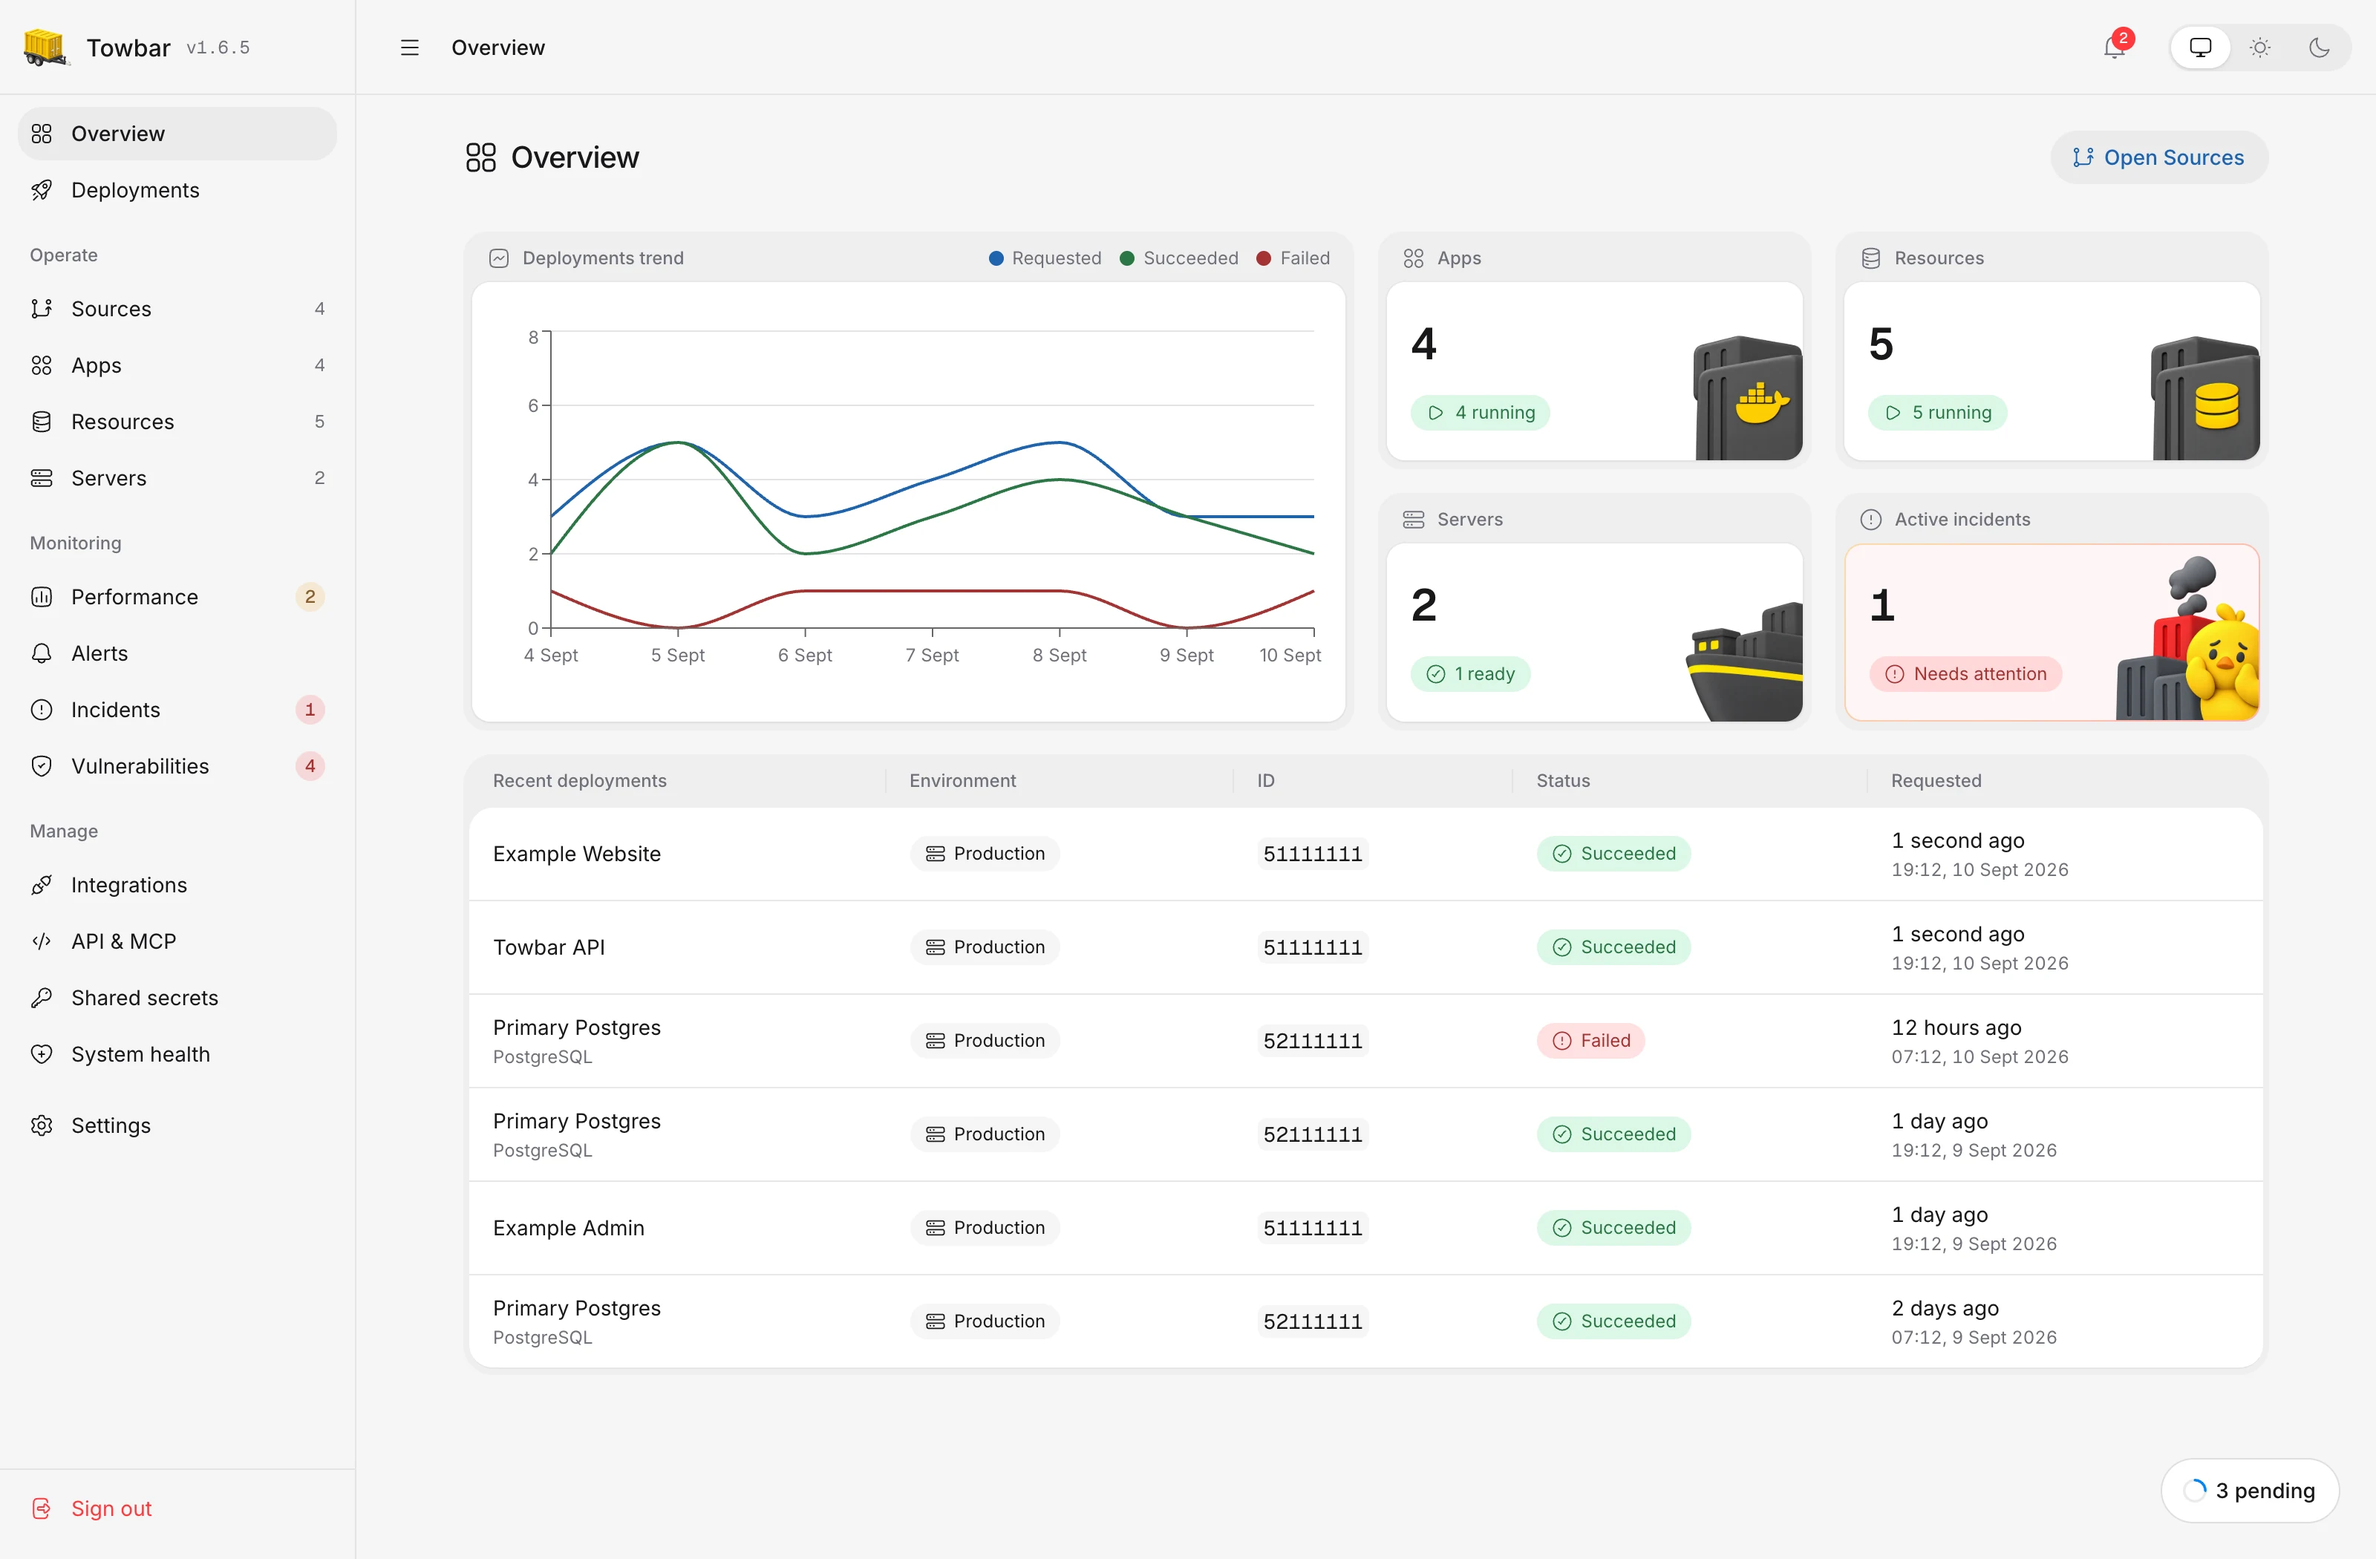
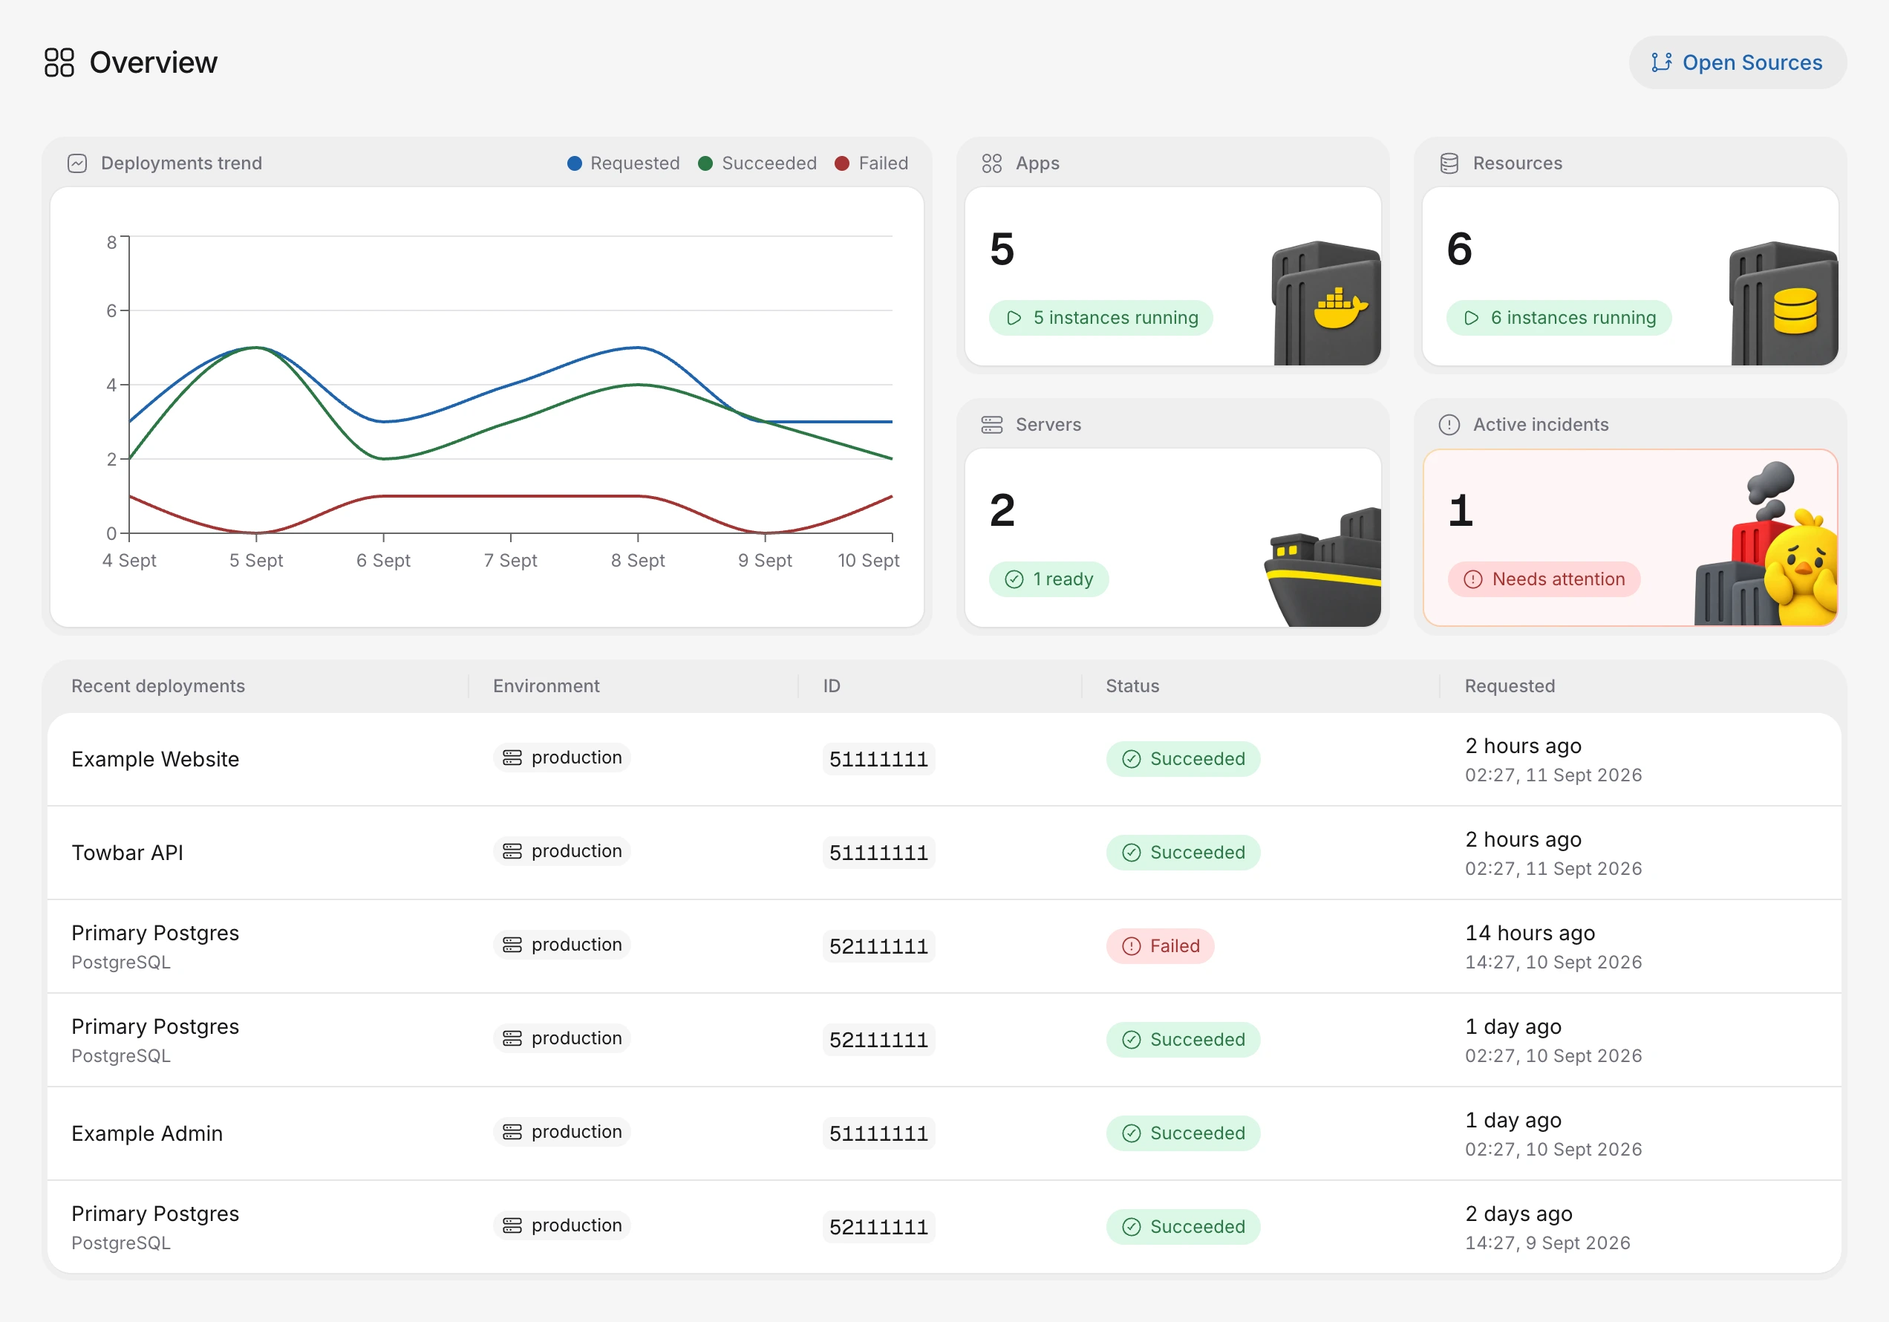
Refresh core documentation screenshots for v2 environments

diff --git a/docs/docs/getting-started.md b/docs/docs/getting-started.md
@@ -67,10 +67,10 @@ A successful sync imports **Hello Towbar** into the Source's Apps list. If it fa
 
 <div className="towbar-doc-screenshot">
   <div className="towbar-product-light">
-    <img src="/assets/features/sources-light.webp" alt="Example Sources inventory after importing repositories. Open a Source to inspect its apps and sync result." width="2160" height="904" loading="lazy" />
+    <img src="/assets/features/sources-light.webp" alt="Example Sources inventory after importing repositories. Open a Source to inspect its apps and sync result." width="2176" height="1054" loading="lazy" />
   </div>
   <div className="towbar-product-dark">
-    <img src="/assets/features/sources-dark.webp" alt="Example Sources inventory after importing repositories. Open a Source to inspect its apps and sync result." width="2160" height="904" loading="lazy" />
+    <img src="/assets/features/sources-dark.webp" alt="Example Sources inventory after importing repositories. Open a Source to inspect its apps and sync result." width="2176" height="1054" loading="lazy" />
   </div>
   <p>Example Sources inventory after importing repositories. Open a Source to inspect its apps and sync result.</p>
 </div>

diff --git a/docs/plans/manifest-v2.md b/docs/plans/manifest-v2.md
@@ -421,3 +421,14 @@ The original deployer-only app mode also passed after the shared harness changes
 including production/staging/preview isolation and failed preview-candidate
 recovery. Both runs removed their disposable Docker targets. The dedicated
 Temporal development server was stopped after the integrated run.
+
+### Core documentation screenshot refresh
+
+Refreshed light/dark fixture captures for the overview (also used by README),
+Sources inventory, app detail and resource detail. App/resource captures include
+production/staging selection. Images retain surrounding padding and 2x resolution;
+all affected documentation dimensions and captions match the new assets. The
+resource feature now uses its detail view because the inventory's horizontally
+scrolling table cannot show every column inside its fixed content width. No
+screenshot-only layout changes were applied. Documentation checks pass for all
+180 pages. These screenshots demonstrate fixture UI, not hosted deployment.
